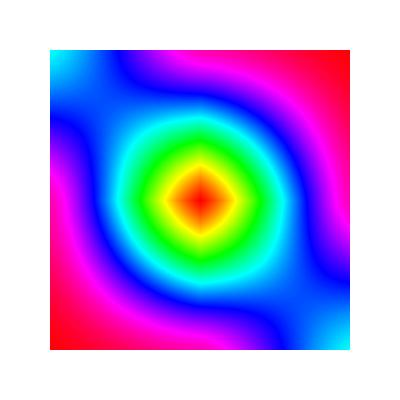
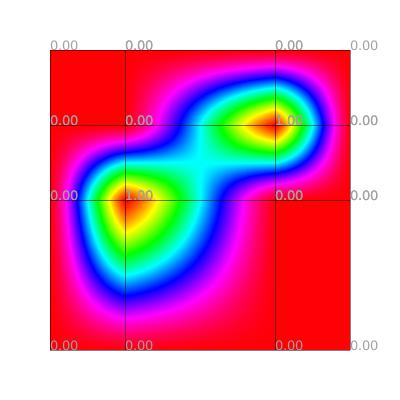
Working on tracking down a bug in interpolateN - setup a test problem

diff --git a/devel/interpolateN/MainWindow.cpp b/devel/interpolateN/MainWindow.cpp
@@ -482,10 +482,11 @@ MainWindow::MainWindow()
 // 		<< qPointValue(QPointF(0,h), 		0.0);
 
 	QList<qPointValue> points = QList<qPointValue>()
-		<< qPointValue(QPointF(0,0), 		0.5)
+		<< qPointValue(QPointF(0,0), 		0.0)
 		//<< qPointValue(QPointF(w/3*2,h/3),	1.0)
-		<< qPointValue(QPointF(w/2,h/2),	1.0)
-		<< qPointValue(QPointF(w,w),		0.5);
+		<< qPointValue(QPointF(w/4*3,h/4),	1.0)
+		<< qPointValue(QPointF(w/4,h/4*2),	1.0)
+		<< qPointValue(QPointF(w,w),		0.0);
 
 //  	#define val(x) ( ((double)x) / 6. )
 //  	QList<qPointValue> points = QList<qPointValue>()
@@ -630,16 +631,16 @@ MainWindow::MainWindow()
 				}
 			}
 			
-// 			QVector<QPointF> vec;
-// 			vec <<tl.point<<tr.point<<br.point<<bl.point;
-// 			p.setPen(QColor(0,0,0,127));
-// 			p.drawPolygon(vec);
-// 			
-// 			p.setPen(Qt::gray);
-// 			p.drawText(tl.point, QString().sprintf("%.02f",tl.value));
-// 			p.drawText(tr.point, QString().sprintf("%.02f",tr.value));
-// 			p.drawText(bl.point, QString().sprintf("%.02f",bl.value));
-// 			p.drawText(br.point, QString().sprintf("%.02f",br.value));
+			QVector<QPointF> vec;
+			vec <<tl.point<<tr.point<<br.point<<bl.point;
+			p.setPen(QColor(0,0,0,127));
+			p.drawPolygon(vec);
+
+			p.setPen(Qt::gray);
+			p.drawText(tl.point, QString().sprintf("%.02f",tl.value));
+			p.drawText(tr.point, QString().sprintf("%.02f",tr.value));
+			p.drawText(bl.point, QString().sprintf("%.02f",bl.value));
+			p.drawText(br.point, QString().sprintf("%.02f",br.value));
 		}
 	}
 	
